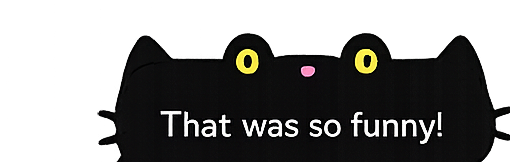
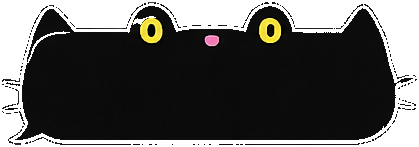
feat: replace bubble artwork with text-free versions from sprite sheet
- Extract all 15 bubble artworks from new sprite sheet PNG
- Remove black background using flood-fill from edges (preserves terminal's dark interior)
- Update constants.tsx with correct dimensions for new artwork
- Re-analyze 9-slice values for each theme's decorative elements
- Only center stretches, left/right edges never stretch (border-image)

diff --git a/packages/desktop/src/components/room/constants.tsx b/packages/desktop/src/components/room/constants.tsx
@@ -365,127 +365,111 @@ export const BUBBLE_THEMES: BubbleTheme[] = [
 
   // ── Artwork Themes (CSS border-image 9-slice) ──
   // Slice values: [top, right, bottom, left] in source image px
-  // Each value = distance inward from that edge to protect decorative elements
+  // Only the CENTER stretches. Left/right edges NEVER stretch.
   {
     id: 'frog', name: 'Kurbağa',
     thumbnail: 'bubbles/themes/frog/full.png',
     bgMe: 'transparent', bgOther: 'transparent',
     textMe: '#ffffff', textOther: '#ffffff',
-    // Left=98: frog eye. Right=58: tail bumps. Top=20: nostrils. Bottom=24: shadow.
-    sliceAssets: { dir: 'bubbles/themes/frog', width: 420, height: 138, slice: [20, 58, 24, 98], scale: 0.45, padding: [4, 8, 6, 8] },
+    sliceAssets: { dir: 'bubbles/themes/frog', width: 478, height: 153, slice: [24, 55, 28, 100], scale: 0.45, padding: [4, 8, 6, 8] },
   },
   {
     id: 'love', name: 'Aşk',
     thumbnail: 'bubbles/themes/love/full.png',
     bgMe: 'transparent', bgOther: 'transparent',
     textMe: '#5c3a4a', textOther: '#5c3a4a',
-    // Left=58: rounded edge. Right=56: heart top-right. Bottom=30: hearts bottom-left.
-    sliceAssets: { dir: 'bubbles/themes/love', width: 440, height: 130, slice: [20, 56, 30, 58], scale: 0.45, padding: [4, 8, 6, 8] },
+    sliceAssets: { dir: 'bubbles/themes/love', width: 409, height: 151, slice: [20, 55, 32, 55], scale: 0.45, padding: [4, 8, 6, 8] },
   },
   {
     id: 'cat', name: 'Kedi',
     thumbnail: 'bubbles/themes/cat/full.png',
     bgMe: 'transparent', bgOther: 'transparent',
     textMe: '#ffffff', textOther: '#ffffff',
-    // Left=250: left ear+eye+nose. Right=220: right ear+eye. Top=90: entire face. Bottom=28: shadow.
-    // Large L/R slices because decorative face is centered.
-    sliceAssets: { dir: 'bubbles/themes/cat', width: 510, height: 162, slice: [90, 220, 28, 250], scale: 0.40, padding: [4, 6, 6, 6] },
+    sliceAssets: { dir: 'bubbles/themes/cat', width: 419, height: 147, slice: [80, 165, 22, 175], scale: 0.40, padding: [4, 6, 6, 6] },
   },
   {
     id: 'pawprint', name: 'Patiler',
     thumbnail: 'bubbles/themes/pawprint/full.png',
     bgMe: 'transparent', bgOther: 'transparent',
     textMe: '#5c4033', textOther: '#5c4033',
-    // Left=88: left paw decorations. Right=96: right paw decorations.
-    sliceAssets: { dir: 'bubbles/themes/pawprint', width: 380, height: 150, slice: [24, 96, 24, 88], scale: 0.45, padding: [6, 8, 6, 8] },
+    sliceAssets: { dir: 'bubbles/themes/pawprint', width: 431, height: 131, slice: [22, 95, 22, 90], scale: 0.45, padding: [6, 8, 6, 8] },
   },
   {
     id: 'galaxy', name: 'Galaksi',
     thumbnail: 'bubbles/themes/galaxy/full.png',
     bgMe: 'transparent', bgOther: 'transparent',
     textMe: '#ffffff', textOther: '#ffffff',
-    // Left=72: tail+stars. Right=72: corner. Symmetric decorations.
-    sliceAssets: { dir: 'bubbles/themes/galaxy', width: 450, height: 140, slice: [26, 72, 30, 72], scale: 0.45, padding: [4, 8, 6, 8] },
+    sliceAssets: { dir: 'bubbles/themes/galaxy', width: 446, height: 134, slice: [22, 80, 30, 65], scale: 0.45, padding: [4, 8, 6, 8] },
   },
   {
     id: 'cloud', name: 'Bulut',
     thumbnail: 'bubbles/themes/cloud/full.png',
     bgMe: 'transparent', bgOther: 'transparent',
     textMe: '#4a6fa5', textOther: '#4a6fa5',
-    // Left=108: robot character+cloud bumps. Right=78: cloud icon. Top/Bottom=cloud scallops.
-    sliceAssets: { dir: 'bubbles/themes/cloud', width: 530, height: 148, slice: [42, 78, 38, 108], scale: 0.45, padding: [6, 8, 6, 8] },
+    sliceAssets: { dir: 'bubbles/themes/cloud', width: 422, height: 148, slice: [45, 80, 42, 90], scale: 0.45, padding: [6, 8, 6, 8] },
   },
   {
     id: 'pixel', name: 'Piksel',
     thumbnail: 'bubbles/themes/pixel/full.png',
     bgMe: 'transparent', bgOther: 'transparent',
     textMe: '#1a1a2e', textOther: '#1a1a2e',
-    // Left=60: pixel border. Right=110: pixel piggy. Bottom=30: pixel tail.
-    sliceAssets: { dir: 'bubbles/themes/pixel', width: 430, height: 128, slice: [24, 110, 30, 60], scale: 0.45, padding: [4, 8, 6, 8] },
+    sliceAssets: { dir: 'bubbles/themes/pixel', width: 414, height: 138, slice: [22, 105, 28, 55], scale: 0.45, padding: [4, 8, 6, 8] },
   },
   {
     id: 'tape', name: 'Not Kağıdı',
     thumbnail: 'bubbles/themes/tape/full.png',
     bgMe: 'transparent', bgOther: 'transparent',
     textMe: '#5c4033', textOther: '#5c4033',
-    // Left=86: tape decoration. Right=46: clean edge.
-    sliceAssets: { dir: 'bubbles/themes/tape', width: 440, height: 130, slice: [18, 46, 18, 86], scale: 0.45, padding: [4, 8, 4, 8] },
+    sliceAssets: { dir: 'bubbles/themes/tape', width: 406, height: 130, slice: [18, 45, 18, 80], scale: 0.45, padding: [4, 8, 4, 8] },
   },
   {
     id: 'wave', name: 'Dalga',
     thumbnail: 'bubbles/themes/wave/full.png',
     bgMe: 'transparent', bgOther: 'transparent',
     textMe: '#ffffff', textOther: '#ffffff',
-    // Left=86: wave splash+tail. Right=108: wave/foam.
-    sliceAssets: { dir: 'bubbles/themes/wave', width: 510, height: 155, slice: [24, 108, 28, 86], scale: 0.45, padding: [4, 8, 6, 8] },
+    sliceAssets: { dir: 'bubbles/themes/wave', width: 429, height: 137, slice: [22, 100, 24, 60], scale: 0.45, padding: [4, 8, 6, 8] },
   },
   {
     id: 'terminal', name: 'Terminal',
     thumbnail: 'bubbles/themes/terminal/full.png',
     bgMe: 'transparent', bgOther: 'transparent',
     textMe: '#00ff41', textOther: '#00ff41',
-    // Left=60: "> " prompt. Right=58: cursor block.
-    sliceAssets: { dir: 'bubbles/themes/terminal', width: 420, height: 120, slice: [24, 58, 24, 60], scale: 0.45, padding: [4, 8, 4, 8] },
+    sliceAssets: { dir: 'bubbles/themes/terminal', width: 514, height: 164, slice: [28, 70, 35, 75], scale: 0.40, padding: [4, 8, 4, 8] },
   },
   {
     id: 'ribbon', name: 'Kurdele',
     thumbnail: 'bubbles/themes/ribbon/full.png',
     bgMe: 'transparent', bgOther: 'transparent',
     textMe: '#d4507a', textOther: '#d4507a',
-    // Left=72: dashed border+tail. Right=108: pink bow.
-    sliceAssets: { dir: 'bubbles/themes/ribbon', width: 470, height: 145, slice: [24, 108, 26, 72], scale: 0.45, padding: [4, 8, 6, 8] },
+    sliceAssets: { dir: 'bubbles/themes/ribbon', width: 420, height: 136, slice: [22, 100, 24, 65], scale: 0.45, padding: [4, 8, 6, 8] },
   },
   {
     id: 'cheese', name: 'Peynir',
     thumbnail: 'bubbles/themes/cheese/full.png',
     bgMe: 'transparent', bgOther: 'transparent',
     textMe: '#78350f', textOther: '#78350f',
-    // Left=78: cheese edge+tail. Right=118: bite marks+holes+mouse.
-    sliceAssets: { dir: 'bubbles/themes/cheese', width: 510, height: 140, slice: [22, 118, 26, 78], scale: 0.45, padding: [4, 8, 6, 8] },
+    sliceAssets: { dir: 'bubbles/themes/cheese', width: 435, height: 121, slice: [20, 115, 24, 70], scale: 0.45, padding: [4, 8, 6, 8] },
   },
   {
     id: 'wood', name: 'Tahta',
     thumbnail: 'bubbles/themes/wood/full.png',
     bgMe: 'transparent', bgOther: 'transparent',
     textMe: '#ffffff', textOther: '#ffffff',
-    // Left=70: wood edge. Right=84: leaf decoration top-right.
-    sliceAssets: { dir: 'bubbles/themes/wood', width: 430, height: 145, slice: [26, 84, 30, 70], scale: 0.45, padding: [4, 8, 6, 8] },
+    sliceAssets: { dir: 'bubbles/themes/wood', width: 446, height: 139, slice: [24, 80, 28, 70], scale: 0.45, padding: [4, 8, 6, 8] },
   },
   {
     id: 'slime', name: 'Balçık',
     thumbnail: 'bubbles/themes/slime/full.png',
     bgMe: 'transparent', bgOther: 'transparent',
     textMe: '#2d5016', textOther: '#2d5016',
-    // Left=100: slime hole+tail. Right=88: emoji face. Bottom=48: dripping slime drops.
-    sliceAssets: { dir: 'bubbles/themes/slime', width: 460, height: 155, slice: [22, 88, 48, 100], scale: 0.45, padding: [4, 8, 4, 8] },
+    sliceAssets: { dir: 'bubbles/themes/slime', width: 421, height: 143, slice: [20, 80, 45, 90], scale: 0.45, padding: [4, 8, 4, 8] },
   },
   {
     id: 'letter', name: 'Mektup',
     thumbnail: 'bubbles/themes/letter/full.png',
     bgMe: 'transparent', bgOther: 'transparent',
     textMe: '#1e293b', textOther: '#1e293b',
-    // Left=82: air mail stripes. Right=98: heart wax seal+stripes.
-    sliceAssets: { dir: 'bubbles/themes/letter', width: 510, height: 142, slice: [24, 98, 24, 82], scale: 0.45, padding: [4, 8, 4, 8] },
+    sliceAssets: { dir: 'bubbles/themes/letter', width: 441, height: 131, slice: [22, 90, 22, 75], scale: 0.45, padding: [4, 8, 4, 8] },
   },
   {
     id: 'heart_pepe', name: 'Kurumi',
